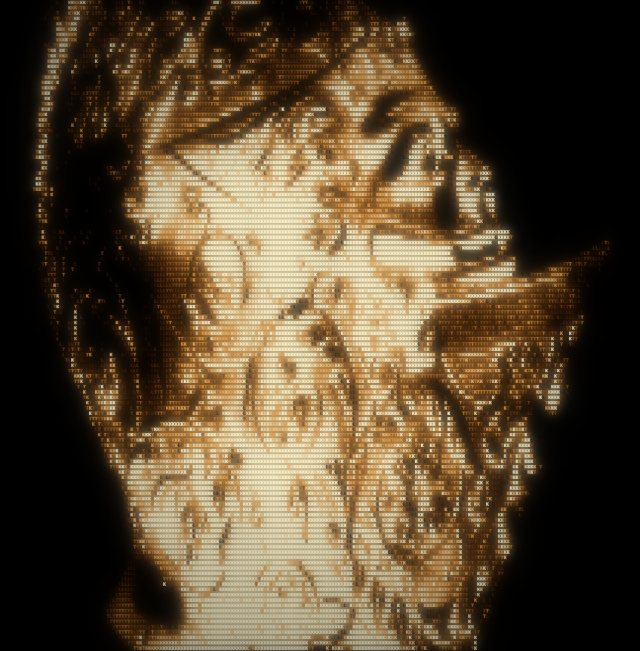
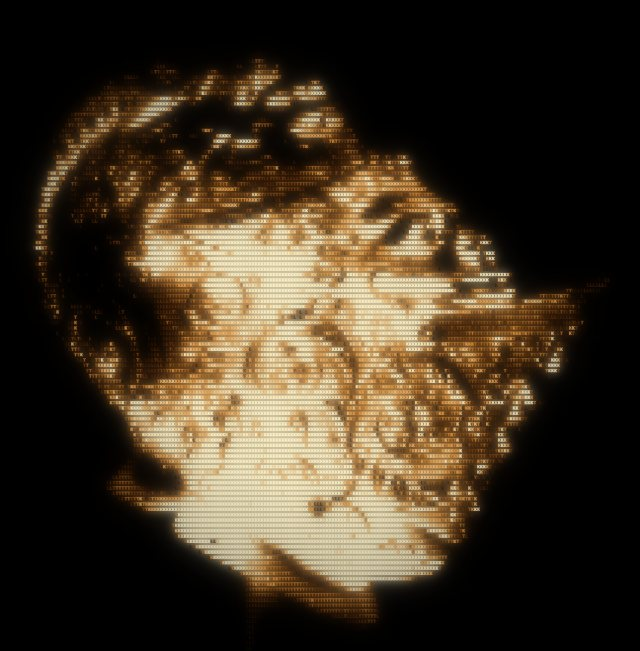
Fix cropped framing, carried-over demo settings and clipped text; render 5-8x faster
The work canvas now has the output's aspect ratio, so pictures are no longer cropped on the text grid. Demo-specific settings reset when you open your own source, text is fitted by its ink bounds, webcam GIFs wait for real frames, and glyphs are stamped straight into pixel memory. Adds an end-to-end check that the whole picture reaches all four edges.

diff --git a/web/js/renderer.js b/web/js/renderer.js
@@ -25,9 +25,13 @@
     { id: 'system', name: 'System mono', family: 'ui-monospace, Consolas, "Courier New"' }
   ];
 
+  /* Blackletter faces fall back to another blackletter (Pirata One covers
+     every Turkish letter) before the mono fallback. */
+  const BLACKLETTER = ['unifraktur', 'grenze', 'jacquard'];
+
   GF.fontStack = function (id) {
     const f = GF.FONTS.find((x) => x.id === id) || GF.FONTS[0];
-    return f.family + ', ' + FALLBACK_STACK;
+    return f.family + ', ' + (BLACKLETTER.includes(f.id) ? '"Pirata One", ' : '') + FALLBACK_STACK;
   };
 
   /* Edge glyphs in orientation order: vertical, rising, horizontal, falling. */
@@ -35,6 +39,9 @@
     ascii: ['|', '/', '-', '\\'],
     box: ['│', '╱', '─', '╲']
   };
+
+  /* pixel packing for Uint32 writes into ImageData */
+  const LITTLE_ENDIAN = new Uint8Array(new Uint32Array([1]).buffer)[0] === 1;
 
   const BAYER4 = [0, 8, 2, 10, 12, 4, 14, 6, 3, 11, 1, 9, 15, 7, 13, 5].map((v) => (v + 0.5) / 16);
 
@@ -129,7 +136,6 @@
       this.sample = mk();
       this.sample2 = mk();
       this.glyph = mk();
-      this.colorMap = mk();
       this.tint = mk();
       this.blur = mk();
       this.warp = mk();
@@ -206,11 +212,17 @@
       const data = g.getImageData(0, 0, canvas.width, canvas.height).data;
       const area = cw * ch * 255;
       for (const c of cells) {
+        const mask = new Uint8Array(cw * ch);
         let sum = 0;
+        let k = 0;
         for (let yy = c.y; yy < c.y + ch; yy++) {
           let p = (yy * canvas.width + c.x) * 4 + 3;
-          for (let xx = 0; xx < cw; xx++, p += 4) sum += data[p];
+          for (let xx = 0; xx < cw; xx++, p += 4) {
+            mask[k++] = data[p];
+            sum += data[p];
+          }
         }
+        c.mask = mask;
         c.density = sum / area;
       }
       if (opts.sort !== false && !opts.sizes) cells.sort((a, b) => a.density - b.density);
@@ -272,9 +284,15 @@
       const { cw, ch, cols, rows, W, H } = geo;
       const total = cols * rows;
 
-      /* 1. frame, sample */
-      const compW = Math.min(4096, cols * 4);
-      const compH = Math.min(4096, rows * 4);
+      /* 1. frame, sample. The work canvas has the output's aspect ratio
+         (cells are not square), so framing and titles are never distorted;
+         sampling then squeezes it onto the cell grid. */
+      let compW = Math.min(4096, cols * 4);
+      let compH = Math.round((compW * H) / W);
+      if (compH > 4096) {
+        compW = Math.max(1, Math.round((compW * 4096) / compH));
+        compH = 4096;
+      }
       let cc;
       try {
         cc = this.compose(src, s, compW, compH);
@@ -464,28 +482,49 @@
         }
       }
 
-      /* 4. stamp glyphs, then colour them */
+      /* 4. stamp coloured glyphs straight into pixel memory: one pass,
+         no per-cell draw calls (cells never overlap) */
       size(this.glyph, W, H);
-      const gc = this.glyph.getContext('2d');
-      gc.globalCompositeOperation = 'source-over';
-      gc.globalAlpha = 1;
-      gc.clearRect(0, 0, W, H);
+      if (!this.glyphImg || this.glyphImg.width !== W || this.glyphImg.height !== H) {
+        this.glyphImg = new ImageData(W, H);
+        this.glyphBuf = new Uint32Array(this.glyphImg.data.buffer);
+      }
+      const buf = this.glyphBuf;
+      buf.fill(0);
       for (let y = 0; y < rows; y++) {
-        const py = y * ch;
+        const rowBase = y * ch * W;
         for (let x = 0; x < cols; x++) {
-          const gi = idx[y * cols + x];
+          const i = y * cols + x;
+          const gi = idx[i];
           if (gi < 0) continue;
-          const c = glyphs[gi];
-          gc.drawImage(c.canvas, c.x, c.y, cw, ch, x * cw, py, cw, ch);
+          const mask = glyphs[gi].mask;
+          const p = i * 4;
+          const a = colors[p + 3];
+          if (!a) continue;
+          let m = 0;
+          if (LITTLE_ENDIAN) {
+            const rgb = (colors[p + 2] << 16) | (colors[p + 1] << 8) | colors[p];
+            for (let yy = 0; yy < ch; yy++) {
+              let o = rowBase + yy * W + x * cw;
+              for (let xx = 0; xx < cw; xx++, o++, m++) {
+                const ma = mask[m];
+                if (ma) buf[o] = ((((ma * a + 127) / 255) | 0) << 24 | rgb) >>> 0;
+              }
+            }
+          } else {
+            const rgb = ((colors[p] << 24) | (colors[p + 1] << 16) | (colors[p + 2] << 8)) >>> 0;
+            for (let yy = 0; yy < ch; yy++) {
+              let o = rowBase + yy * W + x * cw;
+              for (let xx = 0; xx < cw; xx++, o++, m++) {
+                const ma = mask[m];
+                if (ma) buf[o] = (rgb | (((ma * a + 127) / 255) | 0)) >>> 0;
+              }
+            }
+          }
         }
       }
-      size(this.colorMap, cols, rows);
-      this.colorMap.getContext('2d').putImageData(new ImageData(colors, cols, rows), 0, 0);
-      gc.globalCompositeOperation = 'source-in';
-      gc.imageSmoothingEnabled = false;
-      gc.drawImage(this.colorMap, 0, 0, W, H);
-      gc.globalCompositeOperation = 'source-over';
-      gc.imageSmoothingEnabled = true;
+      const gc = this.glyph.getContext('2d');
+      gc.putImageData(this.glyphImg, 0, 0);
 
       /* 5. composite */
       size(target, W, H);

diff --git a/web/js/app.js b/web/js/app.js
@@ -12,6 +12,7 @@
 
   const S = Object.assign({}, GF.DEFAULTS);
   const renderer = new GF.Renderer();
+  const thumbRenderer = new GF.Renderer();
   const out = $('#out');
   const before = $('#before');
   const frameBox = $('#frame');
@@ -141,6 +142,7 @@
       .catch(() => {})
       .then(() => {
         renderer.clearCache();
+        thumbRenderer.clearCache();
         if (source && source.kind === 'text') source.dirty = true;
         invalidate();
       });
@@ -155,6 +157,21 @@
 
   /* ---------- sources ---------- */
 
+  /* Settings that belong to one particular picture. When you leave a demo
+     for your own image, video, webcam or text they go back to defaults;
+     the look (glyphs, colour, effects) stays. */
+  const PICTURE_KEYS = ['invert', 'brightness', 'contrast', 'gamma', 'threshold', 'saturation', 'inject',
+    'title', 'frame', 'frameZoom', 'frameX', 'frameY', 'rotate', 'flipX', 'outWidth'];
+
+  function leaveDemo() {
+    if (!currentDemo) return;
+    const reset = {};
+    PICTURE_KEYS.forEach((k) => (reset[k] = GF.DEFAULTS[k]));
+    Object.assign(S, reset);
+    afterBulk();
+    undo.touch();
+  }
+
   async function setSource(promise, demo) {
     const token = ++sourceToken;
     stage.classList.add('busy');
@@ -165,6 +182,7 @@
         return false;
       }
       if (source) source.dispose();
+      if (!demo) leaveDemo();
       source = src;
       currentDemo = demo || null;
       playing = true;
@@ -421,7 +439,7 @@
     const s = Object.assign({}, S, look, { title: '', anim: 'none' });
     const scale = Math.min(1, 300 / S.outWidth);
     try {
-      renderer.render(source, s, canvas, { scale, time: now(), keepLast: true });
+      thumbRenderer.render(source, s, canvas, { scale, time: now(), keepLast: true });
     } catch (e) { /* a thumbnail is not worth an error */ }
   }
 
@@ -679,7 +697,10 @@
   }
 
   function openExport() {
-    if (!source) return;
+    if (!source) {
+      toast(t('sourceNone'), true);
+      return;
+    }
     const dlg = $('#dlg-export');
     $('#export-body').replaceChildren(exportControls());
     if (!dlg.open) dlg.showModal();

diff --git a/web/js/sources.js b/web/js/sources.js
@@ -177,17 +177,31 @@
         const lines = String(s.text || ' ').split('\n');
         const family = GF.fontStack(s.textFont);
         const weight = s.textWeight === 'bold' ? '700 ' : '400 ';
-        let px = h;
-        ctx.font = weight + px + 'px ' + family;
-        const widest = Math.max(1, ...lines.map((l) => ctx.measureText(l).width));
-        px = Math.min((px * w * 0.9) / widest, (h * 0.86) / (lines.length * 1.08));
-        ctx.font = weight + Math.floor(px) + 'px ' + family;
-        ctx.textAlign = 'center';
-        ctx.textBaseline = 'middle';
+        /* fit by the real ink bounds, so accents (Ş, Ö, İ) and tall
+           blackletter capitals are never cut off */
+        const probe = 200;
+        ctx.font = weight + probe + 'px ' + family;
+        const m = lines.map((l) => {
+          if (!l.trim()) return { left: 0, width: 0, asc: probe * 0.4, desc: 0 };
+          const t = ctx.measureText(l);
+          const left = t.actualBoundingBoxLeft || 0;
+          const width = left + (t.actualBoundingBoxRight || t.width);
+          return { left, width, asc: t.actualBoundingBoxAscent || probe * 0.8, desc: t.actualBoundingBoxDescent || probe * 0.2 };
+        });
+        const gap = probe * 0.14;
+        const blockW = Math.max(1, ...m.map((x) => x.width));
+        const blockH = m.reduce((a, x) => a + x.asc + x.desc, 0) + gap * (m.length - 1);
+        const k = Math.min((w * 0.9) / blockW, (h * 0.84) / blockH);
+        ctx.font = weight + probe * k + 'px ' + family;
+        ctx.textAlign = 'left';
+        ctx.textBaseline = 'alphabetic';
         ctx.fillStyle = '#fff';
-        const lh = px * 1.08;
-        const y0 = h / 2 - (lh * lines.length) / 2 + lh / 2;
-        lines.forEach((l, i) => ctx.fillText(l, w / 2, y0 + i * lh));
+        let y = (h - blockH * k) / 2;
+        lines.forEach((l, i) => {
+          y += m[i].asc * k;
+          if (l.trim()) ctx.fillText(l, (w - m[i].width * k) / 2 + m[i].left * k, y);
+          y += (m[i].desc + gap) * k;
+        });
       },
       dispose() {}
     };

diff --git a/web/css/app.css b/web/css/app.css
@@ -177,11 +177,11 @@ body.recording .rec-badge { display: flex; }
 
 /* ---------- panel ---------- */
 .panel { width: 348px; flex: none; display: flex; flex-direction: column; min-height: 0; background: var(--panel); border-left: 1px solid var(--line); }
-.tabs { display: flex; gap: 2px; padding: 0 8px; border-bottom: 1px solid var(--line); overflow-x: auto; scrollbar-width: none; }
+.tabs { display: flex; padding: 0 6px; border-bottom: 1px solid var(--line); overflow-x: auto; scrollbar-width: none; }
 .tabs button {
   position: relative;
-  flex: none;
-  padding: 11px 8px 10px;
+  flex: 1 1 auto;
+  padding: 11px 5px 10px;
   border: 0;
   background: none;
   color: var(--muted);
@@ -191,7 +191,7 @@ body.recording .rec-badge { display: flex; }
 }
 .tabs button:hover { color: var(--text); }
 .tabs button[aria-selected="true"] { color: var(--text); }
-.tabs button[aria-selected="true"]::after { content: ""; position: absolute; left: 8px; right: 8px; bottom: -1px; height: 2px; background: var(--accent); }
+.tabs button[aria-selected="true"]::after { content: ""; position: absolute; left: 5px; right: 5px; bottom: -1px; height: 2px; background: var(--accent); }
 .panel-body { flex: 1; overflow-y: auto; scrollbar-color: var(--line-2) transparent; }
 .sec { padding: 14px 14px 16px; border-bottom: 1px solid var(--line); display: grid; gap: 11px; }
 .sec:last-child { border-bottom: 0; }

diff --git a/web/js/gif.js b/web/js/gif.js
@@ -35,9 +35,12 @@
     const transparent = !!settings.transparent;
     const format = transparent ? 'rgba4444' : 'rgb565';
 
+    const live = source.kind === 'webcam';
     async function frame(f) {
       const t = f / fps;
       if (video) await seek(video, t);
+      /* a camera cannot be seeked: wait for real time to pass instead */
+      if (live && f > 0) await new Promise((r) => setTimeout(r, 1000 / fps));
       source.update(t, settings);
       renderer.render(source, settings, canvas, { scale, time: t, keepLast: true });
       return canvas.getContext('2d').getImageData(0, 0, canvas.width, canvas.height);

diff --git a/CHANGELOG.md b/CHANGELOG.md
@@ -1,5 +1,15 @@
 # Changelog
 
+## 1.1.2
+
+- Fixed: pictures were cropped at the top and bottom on the default text grid since 1.1.0; framing now uses the output's real aspect ratio, and baked titles are no longer squashed.
+- Fixed: opening your own image, video, webcam or text after a demo kept the demo's title, inversion, cut-off and framing.
+- Fixed: Turkish accents and tall blackletter capitals were cut off in text sources; blackletter fonts fall back to Pirata One for missing letters.
+- Fixed: webcam GIFs were a single repeated frame.
+- Fixed: the last panel tab could be clipped.
+- Rendering is 5–8× faster (glyphs are written straight into pixel memory), so sliders respond immediately.
+- Look thumbnails use their own renderer and no longer slow down the main preview.
+
 ## 1.1.1
 
 - Video recording is back to fixed-rate capture, so recorded clips play in every browser; empty recordings show an error instead of downloading.
